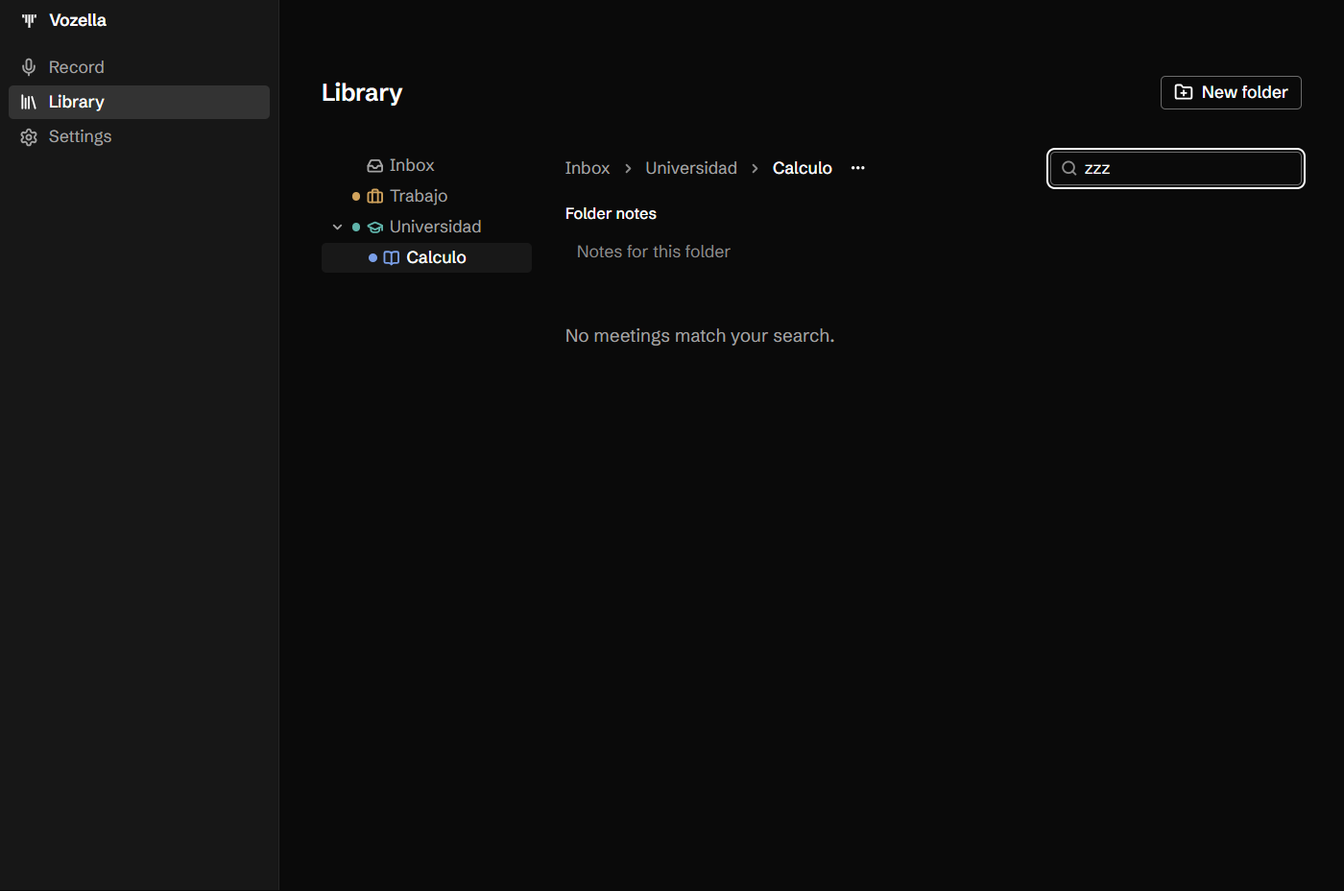
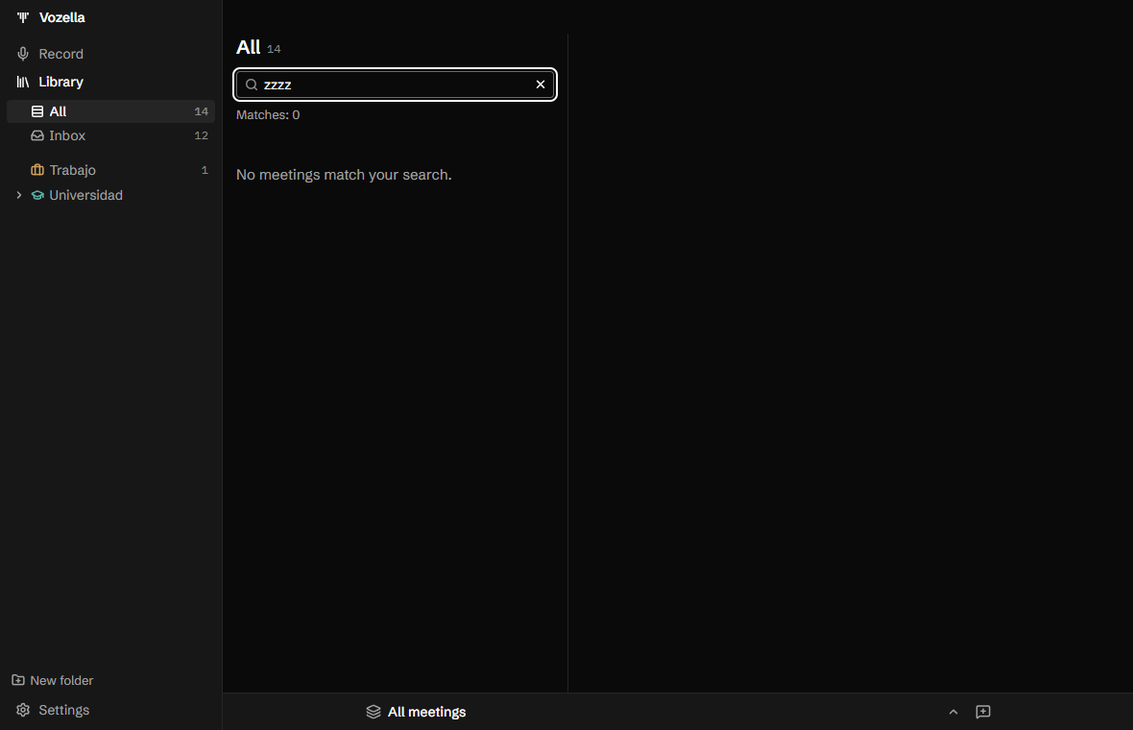
docs(library): parity, screens and the full e2e run
Records the improved items and the search, trash and Undo decisions, and
regenerates the screens. The full run found one stale click in
shell-chrome. Background windows now park from creation, report the place
they asked for and never really minimize or restore, so window specs run
with nothing surfacing. The popup spec reads the state at activation,
because the take that follows minimizes the window by design.

diff --git a/apps/desktop/e2e/library-screens.spec.ts b/apps/desktop/e2e/library-screens.spec.ts
@@ -186,12 +186,14 @@ async function resize(
 ): Promise<void> {
   await launched.app.evaluate(
     ({ BrowserWindow }, size) => {
-      BrowserWindow.getAllWindows()[0]?.setContentSize(size.width, size.height);
+      const main = BrowserWindow.getAllWindows()[0];
+      // The real minimum is the 960 asked for here, and parked the frame would keep it at 976.
+      main?.setMinimumSize(300, 300);
+      main?.setContentSize(size.width, size.height);
     },
     { width, height },
   );
-  await expect.poll(() => page.evaluate(() => window.innerWidth)).toBeGreaterThanOrEqual(width);
-  await expect.poll(() => page.evaluate(() => window.innerWidth)).toBeLessThanOrEqual(width + 16);
+  await expect.poll(() => page.evaluate(() => window.innerWidth)).toBe(width);
   await page.waitForTimeout(200);
 }
 
@@ -276,18 +278,6 @@ test.describe('seeded library', () => {
       await shot(page, `library-no-match-${theme}`);
       await search.fill('');
 
-      // Hover and the row menu.
-      await row(page, 'Customer call, Acme').hover();
-      await shot(page, `library-row-hover-${theme}`);
-      await row(page, 'Customer call, Acme').getByRole('button', { name: 'More actions' }).click();
-      await expect(page.getByRole('menu')).toBeVisible();
-      await shot(page, `library-row-menu-${theme}`);
-      await page.keyboard.press('Escape');
-      // Focus left on the menu button keeps its tooltip up, and a check does not take the focus.
-      await page.evaluate(() => {
-        (document.activeElement as HTMLElement | null)?.blur();
-      });
-
       // Several checked, with the bar up.
       await row(page, 'Quarterly planning').getByRole('checkbox').click();
       await row(page, 'Customer call, Acme').getByRole('checkbox').click();
@@ -301,6 +291,14 @@ test.describe('seeded library', () => {
       await page.keyboard.press('Escape');
       await bar.getByRole('button').last().click();
       await expect(bar).toHaveCount(0);
+
+      // Hover and the row menu.
+      await row(page, 'Customer call, Acme').hover();
+      await shot(page, `library-row-hover-${theme}`);
+      await row(page, 'Customer call, Acme').getByRole('button', { name: 'More actions' }).click();
+      await expect(page.getByRole('menu')).toBeVisible();
+      await shot(page, `library-row-menu-${theme}`);
+      await page.keyboard.press('Escape');
 
       // A folder: path, icon, note, and a move that can be undone.
       await page.getByRole('treeitem', { name: /Universidad/ }).click();

diff --git a/apps/desktop/e2e/meeting-popup.spec.ts b/apps/desktop/e2e/meeting-popup.spec.ts
@@ -147,6 +147,22 @@ test('Dismiss from the More menu closes the popup', async () => {
 });
 
 test('Start requests take notes and brings the main window to the front', async () => {
+  // The take that follows hands off to the pill and minimizes the window by design, so the state
+  // is read at the moment of activation, the last step of which is focus.
+  await launched.app.evaluate(({ BrowserWindow }) => {
+    const win = BrowserWindow.getAllWindows().find((w) =>
+      w.webContents.getURL().includes('index.html'),
+    );
+    if (!win) return;
+    const focus = win.focus.bind(win);
+    win.focus = () => {
+      (globalThis as { activated?: unknown }).activated = {
+        visible: win.isVisible(),
+        minimized: win.isMinimized(),
+      };
+      focus();
+    };
+  });
   startCall();
   const page = await popupPage();
   await page.getByRole('button', { name: 'Start recording' }).click();
@@ -154,13 +170,11 @@ test('Start requests take notes and brings the main window to the front', async 
   await expect
     .poll(async () => await main.evaluate(() => (window as unknown as { took: number }).took))
     .toBe(1);
-  const mainState = await launched.app.evaluate(({ BrowserWindow }) => {
-    const win = BrowserWindow.getAllWindows().find((w) =>
-      w.webContents.getURL().includes('index.html'),
-    );
-    return { visible: win?.isVisible() ?? false, minimized: win?.isMinimized() ?? true };
-  });
-  expect(mainState).toEqual({ visible: true, minimized: false });
+  await expect
+    .poll(() =>
+      launched.app.evaluate(() => (globalThis as { activated?: unknown }).activated ?? null),
+    )
+    .toEqual({ visible: true, minimized: false });
   await endCall();
 });
 

diff --git a/apps/desktop/e2e/shell-chrome.spec.ts b/apps/desktop/e2e/shell-chrome.spec.ts
@@ -175,7 +175,7 @@ test('selecting navigates and publishes the tag; the same page is a no-op; Sessi
   expect(await page.evaluate(() => window.history.length)).toBe(before);
   await expect(page).toHaveURL(/#\/library$/);
 
-  await page.getByText('Weekly planning').first().click();
+  await page.getByText('Weekly planning').first().dblclick();
   await expect(page).toHaveURL(/#\/session$/);
   await expect(page.getByRole('heading', { level: 1, name: 'Weekly planning' })).toBeVisible();
   await expect(page.locator('#NavItemHistory')).toHaveAttribute('aria-current', 'page');

diff --git a/docs/port/parity/library-storage.md b/docs/port/parity/library-storage.md
@@ -33,15 +33,19 @@ Status words: `done`, `improved` (a section 7 fix or a recorded decision changed
 
 ### Screens (UI half)
 
-- **Layout.** The Library gets a 960 px column (the documents keep 720) with a 200 px folder pane beside the list. Rows are hairline-separated lines, not cards: title and date on one line, a one-line snippet below. No cards inside cards; shadows only on the narrow overlay and menus.
-- **Accents** are folder content, kept muted: a small dot and the icon in the accent color, nothing else is tinted. `signal` red is never used here.
+- **Layout.** Three panes: folders in the app sidebar, a date-grouped list, and a preview beside it. With 760 px of content or more the list is `clamp(340px, 38%, 440px)` and the preview takes the rest; below that there is no preview and a click opens the meeting. The smallest window (960 px, 728 of content) is below the line. The list is a logbook: a virtual `role="grid"` with sticky day headers and fixed 64 px rows, ruled at the bottom, with no cards. Each ruling is 2 px at the left and as long as the meeting on a square-root scale, capped at 120 min and 64 px; it is `aria-hidden`, because the duration is in the row text. Shadows only on the Undo offer, menus and dialogs. Window zoom cannot reduce the width: there is no application menu (`main/index.ts:566`) and nothing in `src` changes the zoom factor.
+- **Accents** are folder content, kept muted: the icon in the accent color, nothing else is tinted. The dot beside it was removed in the redesign; a `Tree` row with no icon keeps it. `signal` red is never used here.
 - **Session placeholder.** The Session module is not built, so `/session` shows the opened meeting title and tab and a back link. It exists so the hand-off through the workspace is real and testable; the Session module replaces it.
-- **Shell.** `AppShell` now listens to `workspace.navigationRequested` and reports its tag. It also widens the content column on `/library`.
-- **UI kit changes.** `Tree` takes optional accent dots, controlled expansion and per-row context menus; `Dialog` takes an initial focus target; new `Notice`; `ContextMenu` can render its trigger as another element. All are backward compatible and covered in `components.test.tsx`.
+- **Shell.** `AppShell` listens to `workspace.navigationRequested` and reports its tag. `/library` is paned: `main` stops scrolling and each pane has its own scroll, with the same elements, so `Outlet` does not remount. `NavRail` has a slot after Library for the folder tree, shown on every route; the selection shows only on `/library` and `/session`, and on `/library` the rail does not also fill Library. A folder click elsewhere sets the view and navigates; a right click elsewhere does not. Forced colors mark the selection with an outline in the rail, the tree and the list, because the Canvas backplate behind text made `HighlightText` on a `Highlight` fill unreadable.
+- **UI kit changes.** `Tree` takes optional accent dots (for rows with no icon), controlled expansion, per-row context menus, `rowProps(id)` for drop targets and `selectOnContextMenu`; `Dialog` takes an initial focus target; new `Notice`; `ContextMenu` can render its trigger as another element. All are backward compatible and covered in `components.test.tsx`.
 - **New strings** (en and es): `Ui_LibraryFolders`, `Ui_LibraryFolderActions`, `Ui_LibraryOpenFailed`. Everything else reuses existing keys. The meeting list is named with `HistoryPage_Title`, the breadcrumb with `Chat_ScopeFolder`.
 - **Move after a busy refusal** shows `HistoryDelete_Busy` (same meaning as for delete) instead of a new string.
 - **TDD note.** The screen tests and the e2e specs were written after the screen code and were green on first run. RED was not observed.
-- **Checks.** `LibraryRoute.test.tsx` drives the real page against the real `LibraryService` over in-memory repositories and the real `Workspace`. `library-ui.spec.ts` drives the built app with `VOZELLA_FAKE_NATIVE=1`, writes meeting files the way the app does and checks the files on disk. The folder dialog and `shell.openPath` are stubbed in the main process, so no real dialog or file manager opens. axe (serious and critical) is clean on the library, the new folder dialog and the data card in both themes.
+- **Checks.** `LibraryRoute.test.tsx` drives the real page against the real `LibraryService` over in-memory repositories and the real `Workspace`. `library-ui.spec.ts` drives the built app with `VOZELLA_FAKE_NATIVE=1`, writes meeting files the way the app does and checks the files on disk. The folder dialog and `shell.openPath` are stubbed in the main process, so no real dialog or file manager opens. `library-grid.spec.ts` proves the virtual grid in the real renderer, `library-interactions.spec.ts` checks, keyboard and drag with the files on disk, and `library-a11y.spec.ts` runs axe over the grid and the tree (any impact) and the page (serious and critical), in both themes, in the states that change roles or colors.
+- **Search.** `library.search` reads titles, summaries, notes and transcripts in `packages/core/src/library/meeting-search.ts`, accent-insensitive with words ANDed. Titles filter at once in memory; the second stage needs 2 or more characters and a 200 ms debounce, and results stay date-ordered. Measured at 3,000 meetings on this machine: gate met at 13 MB (148 ms cold, 137 ms warm at worst); at 78 MB the cold gate is met and warm is over by up to 41 ms; at 156 MB (about an hour per meeting) the gate of 800 ms is missed, at about 1.2 s, because the folded text outgrows the 64 MB cap. Whether the cap or the gate moves is an owner decision. A row brings a match near the start of its snippet with `snippetAroundMatch`, because a narrow row shows only the start.
+- **Trash.** Deleting a meeting moves its audio, sibling WAV and markdown to the Recycle Bin through `shell.trashItem`, injected as `discard`; under `VOZELLA_FAKE_NATIVE` they are unlinked. If the bin refuses, a second dialog offers "Delete permanently". Shift+Delete asks for that directly. Moving a meeting still unlinks the old file. A real bin restore and a volume with no bin are `pending-real-validation`.
+- **Undo.** The redesign named a toast for Undo after a move. It is `UndoOffer` inside the list pane, because `ui/Toast.tsx` has no action: 8 s, held while hovered or focused. It follows a drag and the Move dialog.
+- **Rename from the list.** `session.rename` does not broadcast `library.changed`, so F2 refreshes the list itself after the rename.
 
 ## Parity items
 
@@ -165,9 +169,9 @@ Status words: `done`, `improved` (a section 7 fix or a recorded decision changed
 
 | # | Status | Notes |
 | --- | --- | --- |
-| 82 | done | Inbox is a virtual first node with an empty accent slot so names align. `LibraryRoute.test.tsx` |
+| 82 | improved | All is a new first node, Inbox the second, both virtual, then a gap and the folders. All shows every meeting and is not a drop target; All and Inbox both publish `null` as scope. `LibraryRoute.test.tsx`, `library-store.test.tsx` |
 | 83 | done | `buildFolderTree` |
-| 84 | improved | Reload only adds ancestors of the target to what the user already opened (B14). A selected folder with children is not auto-expanded, as in the spec |
+| 84 | improved | Reload only adds ancestors of the target to what the user already opened (B14). A selected folder with children is not auto-expanded, as in the spec. Holding a drag over a closed folder for 600 ms now opens it |
 | 85 | done | `selectFolder` ignores the current id |
 | 86 | done | `use-library.ts` saves the note of the folder being left before it switches; `LibraryRoute.test.tsx` (folder note) and `library-ui.spec.ts` |
 | 87 | done | `workspace.dispatch publishSelectedFolder` |
@@ -177,18 +181,18 @@ Status words: `done`, `improved` (a section 7 fix or a recorded decision changed
 | 91 | done | Sorted by instant, not by text |
 | 92 | done | |
 | 93 | done | `emptyFlags` truth table |
-| 94 | improved | B15: `emptyFlags.showNoMatches`; string `Ui_LibrarySearchEmpty` |
+| 94 | improved | B15: `emptyFlags.showNoMatches`; string `Ui_LibrarySearchEmpty`. Search now reads inside meetings as well as titles, and offers to widen to everything from a narrower view. "No meetings match" waits for the second stage. See Search in the decisions |
 | 95 | done | |
-| 96 | improved | Skeleton rows of the real list instead of a progress ring, and only on the first load; later reloads are silent so the page does not flash. Loading is cleared in `finally` |
+| 96 | improved | Skeleton rows of the real list (a day header, then rows with time and two lines) instead of a progress ring, and only on the first load; later reloads are silent so the page does not flash. Loading is cleared in `finally`. The preview has its own skeleton, after 150 ms. Screenshot `library-loading-light.png` |
 | 97 | improved | Loads on mount, saves the note on unmount and on `pagehide`. It also reloads when the main process reports `library.changed`, which the WinUI page did not (it had no live refresh) |
-| 98 | improved | The switch is the width of the page area, 600 px, not the window (the sidebar is resizable, so 820 px of window can leave 500 px for the page). Wide: 200 px inline pane. Narrow: closed overlay under the header with a toggle named `Folder` that reports `aria-expanded`; choosing a folder closes it. `LibraryRoute.test.tsx` (narrow layout), screenshot `library-narrow-pane-light.png` |
+| 98 | improved | The folders moved to the sidebar, 232 px at every width, so the narrow overlay and its `Folder` toggle are gone: the overlay was unreachable at the window minimum. The switch is now preview or no preview, at 760 px of the page area, not the window. `LibraryRoute.test.tsx`, `library-grid.spec.ts`, screenshots `library-all-*-960.png` |
 
 ### Folder actions
 
 | # | Status | Notes |
 | --- | --- | --- |
 | 99 | done | `LibraryService.createFolder` |
-| 100 | done | The new folder is selected and its ancestors open. `LibraryRoute.test.tsx`, `library-ui.spec.ts` |
+| 100 | improved | The new folder is selected and its ancestors open. New folder is a quiet row at the end of the sidebar tree, reachable from any route. `LibraryRoute.test.tsx`, `library-ui.spec.ts` |
 | 101 | done | `LibraryNewFolder_Title` and `LibraryNewFolder_TitleIn` |
 | 102 | done | The primary button stays disabled for a blank name; Enter submits only a non-blank name; the service trims |
 | 103 | done | Pre-filled; the directory moves on disk (`library-ui.spec.ts`) |
@@ -197,23 +201,23 @@ Status words: `done`, `improved` (a section 7 fix or a recorded decision changed
 | 106 | done | `not-empty` plus the existing `LibraryDeleteFolder_NotEmpty` string |
 | 107 | done | Cancel has the focus; confirm goes back to Inbox and the handler publishes null. `LibraryRoute.test.tsx`, `library-ui.spec.ts` |
 | 108 | improved | B26: the check uses fresh data |
-| 109 | done | Right click on a real folder now selects it first (so Escape leaves it selected and the note of the previous folder is saved), then opens Rename, Personality, Delete folder; Inbox has no menu. The same three items are in a `Folder actions` button next to the breadcrumb. Audit fix, with a test |
+| 109 | improved | Right click on a real folder selects it first on `/library` (so Escape leaves it selected and the note of the previous folder is saved), then opens Rename, Personality, Delete folder; All and Inbox have no menu. Elsewhere it does not navigate until an entry is chosen. The same three items are in a `Folder actions` button in the list header. With a test |
 | 110 | pending-real-validation | Saved on folder change, create, rename, personality, unmount and `pagehide` (B16). Audit fix: main now tracks library writes and `before-quit` waits for them (3 s cap), covered by a handler test. The save on a real window close was still not observed end to end, and a `pagehide` invoke that has not reached main when the window dies could still be lost |
 
 ### Meeting actions
 
 | # | Status | Notes |
 | --- | --- | --- |
-| 111 | done | `MeetingList.tsx`: title, date and time in the user locale in the mono face, one-line snippet or `History_NoContent`, more button (shown on hover and focus, always visible in forced colors) |
+| 111 | improved | `MeetingGrid.tsx`: time and duration in the mono face, 24 hour in every locale with the full date on hover; title; one-line snippet or `History_NoContent`; check and more button (shown on hover and focus, always in forced colors). Day headers carry the date. Rows also show length through the ruling. Snippet shows the words found |
 | 112 | done | `snippet.test.ts` |
-| 113 | done | Click selects and opens Session on Transcript; Open summary on Summary. The shell navigates. Session is a placeholder (see decisions) |
-| 114 | done | Open summary, Move, Delete from the more button and from right click |
+| 113 | improved | With a preview, a click previews and double click or Enter opens on Transcript (a search hit opens its own tab, notes hits Summary); Open summary opens on Summary. With no preview, a click opens. The shell navigates. Coming back restores the row and the scroll. `LibraryRoute.test.tsx`, `library-grid.spec.ts` |
+| 114 | improved | Open summary, Move, Delete from the more button and from right click, plus keys (Delete, Shift+Delete, F2), the bulk bar for checked meetings, and drag to a folder with Undo; the dialog and the menu satisfy WCAG 2.5.7. `library-interactions.spec.ts` |
 | 115 | done | The dialog lists the flattened paths; the current folder is preselected, Inbox when dangling |
 | 116 | done | |
 | 117 | improved | B13: busy refusal and `io-failed` with the message, as values |
 | 118 | done | `isMeetingBusy` before the dialog and again inside `deleteMeeting`. Nothing reports busy until the recording and re-transcription modules register a probe |
-| 119 | done | Names the title; Cancel has the focus |
-| 120 | done | `HistoryDelete_Failed` with the message; the meeting stays listed. Tested with a locked file in `LibraryRoute.test.tsx` |
+| 119 | improved | Names the title and says it goes to the Recycle Bin; Cancel has the focus. If the bin refuses, a second dialog offers to delete permanently. `LibraryRoute.test.tsx` |
+| 120 | improved | `HistoryDelete_Failed` with the message; the meeting stays listed, and in a bulk delete meetings that failed stay checked. Tested with a locked file in `LibraryRoute.test.tsx` |
 | 121 | done | `library.deleteMeeting` calls `notifyDeleted` |
 | 122 | done | Dispatches `navigateTo Recording`; the shell follows (`library-ui.spec.ts`) |
 | 123 | done | `Notice`, closable, one at a time. Load problems, skipped files and the startup error get their own notices above it |

diff --git a/odd/tasks/library-redesign.md b/odd/tasks/library-redesign.md
@@ -115,7 +115,7 @@ Route: delegated direct through a Workflow requested by the owner, one writer at
 ### Batch 4: visual critique and close-out (about 300)
 - [x] T4.1 Screenshots and critique: light and dark, en and es, 960 and 1180 wide, empty, loading, search, bulk, forced colors, 3,000 meetings; fix what fails; remove one accessory
 - [x] T4.2 Axe e2e pass over grid and tree
-- [ ] T4.3 Update `docs/port/parity/library-storage.md` (improved: 82, 84, 94, 96, 98, 100, 109, 111, 113, 114, 119, 120; must stay true: 86, 87, 88, 105, 107, 110/B16, 115, 123; rewrite the "Layout" and "Shell" notes, add search and trash decisions) and regenerate `docs/port/screens/library-storage/`
+- [x] T4.3 Update `docs/port/parity/library-storage.md` (improved: 82, 84, 94, 96, 98, 100, 109, 111, 113, 114, 119, 120; must stay true: 86, 87, 88, 105, 107, 110/B16, 115, 123; rewrite the "Layout" and "Shell" notes, add search and trash decisions) and regenerate `docs/port/screens/library-storage/`
 
 ## Acceptance
 
@@ -130,7 +130,7 @@ Route: delegated direct through a Workflow requested by the owner, one writer at
 - Focused e2e: `pnpm --filter @vozella/desktop build`, then `pnpm --filter @vozella/desktop exec playwright test e2e/library-ui.spec.ts`
 - From batch 2, by the owner's decision on 2026-11-04 for speed, as an exception to `stack.md:77`: focused Library unit tests per commit, `pnpm check` at the end of each batch, and one e2e run at the end of batch 4, excluding the `pill-*` specs. Those specs cover the screen with a magenta backdrop and stay pending for the owner to run while away from the machine. Every Playwright run sets `VOZELLA_E2E_BACKGROUND=1` (`e2e/background-windows.cjs`), because the owner is using the machine: sampled across 16 specs, no Electron window was on-screen and focus never moved. Batch 1's full e2e run was interrupted and has no result.
 - Screenshots: `VOZELLA_SCREENSHOTS=1` with `library-screens.spec.ts`
-- Manual, pending: real Recycle Bin restore; `trashItem` on a volume with no bin; screen reader pass
+- Manual, pending: real Recycle Bin restore; `trashItem` on a volume with no bin; screen reader pass; a real High Contrast theme, light and dark; a foreground run of `meeting-popup`, `shell-platform` and `shell-window` for real placement and focus
 
 ## Progress
 
@@ -186,12 +186,17 @@ Each batch writer records its commit hashes and observed check results here. A c
     - A return to the Library in the smallest window put a cursor on a row with no preview beside it, because `wide` starts true.
     - Removed accessory: the colored dot beside each folder, since its icon already carries the accent. A tree row with no icon keeps the dot. The indent shrinks with it.
     - Library in the rail no longer fills when the tree under it holds the selection; two stacked fills said the same thing twice.
-  - Density: 960 (976 CSS px at the minimum, 744 of content) is a single list with long snippets and reads well. 1180 gives about 9 rows beside the preview. Spanish overflow: "Bandeja de entrada" and its count fit the 232 px sidebar, "Todas las reuniones" and the bulk bar fit at 960. Dark: `ink-faint` time on paper, `ink-muted` on hovered, checked and cursor rows.
-  - Window zoom cannot take the CSS width below the minimum: with `Menu.setApplicationMenu(null)` (`main/index.ts:566`) and no zoom call in `src`, Ctrl+=, Ctrl+Shift+= and Ctrl+wheel left `getZoomFactor()` at 1 and `innerWidth` at 960 in a probe. Only a programmatic `setZoomFactor(1.5)` gave 640, and nothing in the app calls it. A shown window at the minimum measured up to 16 px over what was asked.
-  - Left as they are: "Inbox > Trabajo" in the path, which is parity item 88; "Matches: 0" above the empty line, because it is the live status a screen reader hears; after Esc from a row menu, its tooltip stays while the focus stays on that button, including while checks are clicked, because a check does not take the focus.
-  - Forced colors in Playwright is emulation with one fixed palette, so a real High Contrast theme stays manual.
-- T4.2 `test(library): axe over the grid and the tree`. New `library-a11y.spec.ts`: every violation of any impact inside `[role="grid"]` and `[role="tree"]`, and serious or critical on the whole page, in light and dark, with a cursor row, a hovered row, checked rows and the bulk bar, marks on the cursor row, a folder open and selected, Spanish in the smallest window, and a grid scrolled with its sticky day. `playwright test e2e/library-a11y.spec.ts` with `VOZELLA_E2E_BACKGROUND=1`: 4 passed, 47.5 s, with no violation in the product. So there was no RED from the product: T3.1 and T3.3 had already fixed the contrast it would have found. To see it can fail, a row planted with the wrong role made it fail with `aria-allowed-attr`, `aria-required-children`, `aria-required-parent` and `nested-interactive`; the plant was removed. Colors are read with reduced motion on, because the page's CSP refuses an injected style and a color read in a transition is wrong. Focused unit: 176 passed. Axe covers only part of WCAG: the screen reader pass stays manual.
+  - Density: 960 (728 of content) is a single list with long snippets and reads well. 1180 gives about 9 rows beside the preview. Spanish overflow: "Bandeja de entrada" and its count fit the 232 px sidebar, "Todas las reuniones" and the bulk bar fit at 960. Dark: `ink-faint` time on paper, `ink-muted` on hovered, checked and cursor rows.
+  - Window zoom cannot take the CSS width below the minimum: with `Menu.setApplicationMenu(null)` (`main/index.ts:566`) and no zoom call in `src`, Ctrl+=, Ctrl+Shift+= and Ctrl+wheel left `getZoomFactor()` at 1 and `innerWidth` at 960 in a probe. Only a programmatic `setZoomFactor(1.5)` gave 640, and nothing in the app calls it.
+  - Left as they are: "Inbox > Trabajo" in the path, which is parity item 88; "Matches: 0" above the empty line, because it is the live status a screen reader hears; after Esc from a row menu, its "More actions" tooltip stayed up over the bulk bar while checks were clicked, seen in `library-bulk-*` and still there after blurring the button; `ui/` tooltips are outside this batch, so the capture now checks before it opens the menu, and the defect stays open.
+  - Forced colors in Playwright is emulation, so a real High Contrast theme stays manual. Over the dark theme the unchecked boxes did not show in that emulation, while over the light theme they did; whether a real dark contrast theme shows them is unknown.
+- T4.2 `dac8471` `test(library): axe over the grid and the tree`. New `library-a11y.spec.ts`: every violation of any impact inside `[role="grid"]` and `[role="tree"]`, and serious or critical on the whole page, in light and dark, with a cursor row, a hovered row, checked rows and the bulk bar, marks on the cursor row, a folder open and selected, Spanish in the smallest window, and a grid scrolled with its sticky day. `playwright test e2e/library-a11y.spec.ts` with `VOZELLA_E2E_BACKGROUND=1`: 4 passed, 47.5 s, with no violation in the product. So there was no RED from the product: T3.1 and T3.3 had already fixed the contrast it would have found. To see it can fail, a row planted with the wrong role made it fail with `aria-allowed-attr`, `aria-required-children`, `aria-required-parent` and `nested-interactive`; the plant was removed. Colors are read with reduced motion on, because the page's CSP refuses an injected style and a color read in a transition is wrong. Focused unit: 176 passed. Axe covers only part of WCAG: the screen reader pass stays manual.
+- T4.3 `docs(library): parity, screens and the full e2e run`. `docs/port/parity/library-storage.md`: items 82, 84, 94, 96, 98, 100, 109, 111, 113, 114, 119, 120 are `improved` with what changed; 86, 87, 88, 105, 107, 110/B16, 115, 123 are unchanged and their specs pass in the run below; the Layout, Accents, Shell and UI kit notes are rewritten, and Search, Trash, Undo (not the toast the decision named) and Rename from the list (`session.rename` does not broadcast `library.changed`) are added. `docs/port/screens/library-storage/` is regenerated, 41 PNGs; `library-inbox-*` and `library-narrow-pane-light` are removed because All and the new narrow layout replace them.
+  - The full run, the first proof of T3.3 to T3.5 against the older specs. First run: 220 passed, 5 failed, 66 skipped, 28 did not run (serial specs behind a failure). Real finding: `shell-chrome.spec.ts` "selecting navigates" still clicked once to open, which now previews; it double clicks. The other four came from the off-screen harness: `meeting-popup`, `shell-platform` and `shell-window` read the real position, and `record-idle` read 1212 for 1196.
+  - `e2e/background-windows.cjs` changed, so those specs run and nothing can surface: windows are parked from creation, not from first show; the app and the specs read the position they asked for, while the real one stays off-screen (now -20000; -32000 made no difference to the size problem and is simply not needed); `minimize` and `restore` only keep state, because a real restore would bring a hidden window on-screen with the focus; `setContentSize` corrects the 16 by 8 px the parked client area gains.
+  - Second run, `VOZELLA_E2E_BACKGROUND=1 playwright test --grep-invert pill-`: 249 passed, 1 failed, 67 skipped, 2 did not run, plus 1 error outside any test that came with that failure, 21.5 min. The failure was a race in `meeting-popup.spec.ts` "Start requests take notes", 1 of 3 runs on its own: the take that follows minimizes the main window by design (`recording-handoff.ts:68`). It now reads the state at activation; the spec then ran 6 passed, five times in a row. The whole suite was not repeated after that spec-only change. The 67 skips are gated on `VOZELLA_SCREENSHOTS`, `VOZELLA_REAL_ASR`, `VOZELLA_REAL_AUDIO` and a packaged build.
+  - The positions those specs now check are the ones the app asked for, so real placement on a screen is not proven by a background run.
 
 ## Next step
 
-Batch 4. Owner to decide whether the 64 MB cap or the gate moves for libraries of hour-long meetings.
+Owner: the manual checks, the `pill-*` specs while away from the machine, and whether the 64 MB cap or the gate moves for libraries of hour-long meetings.
